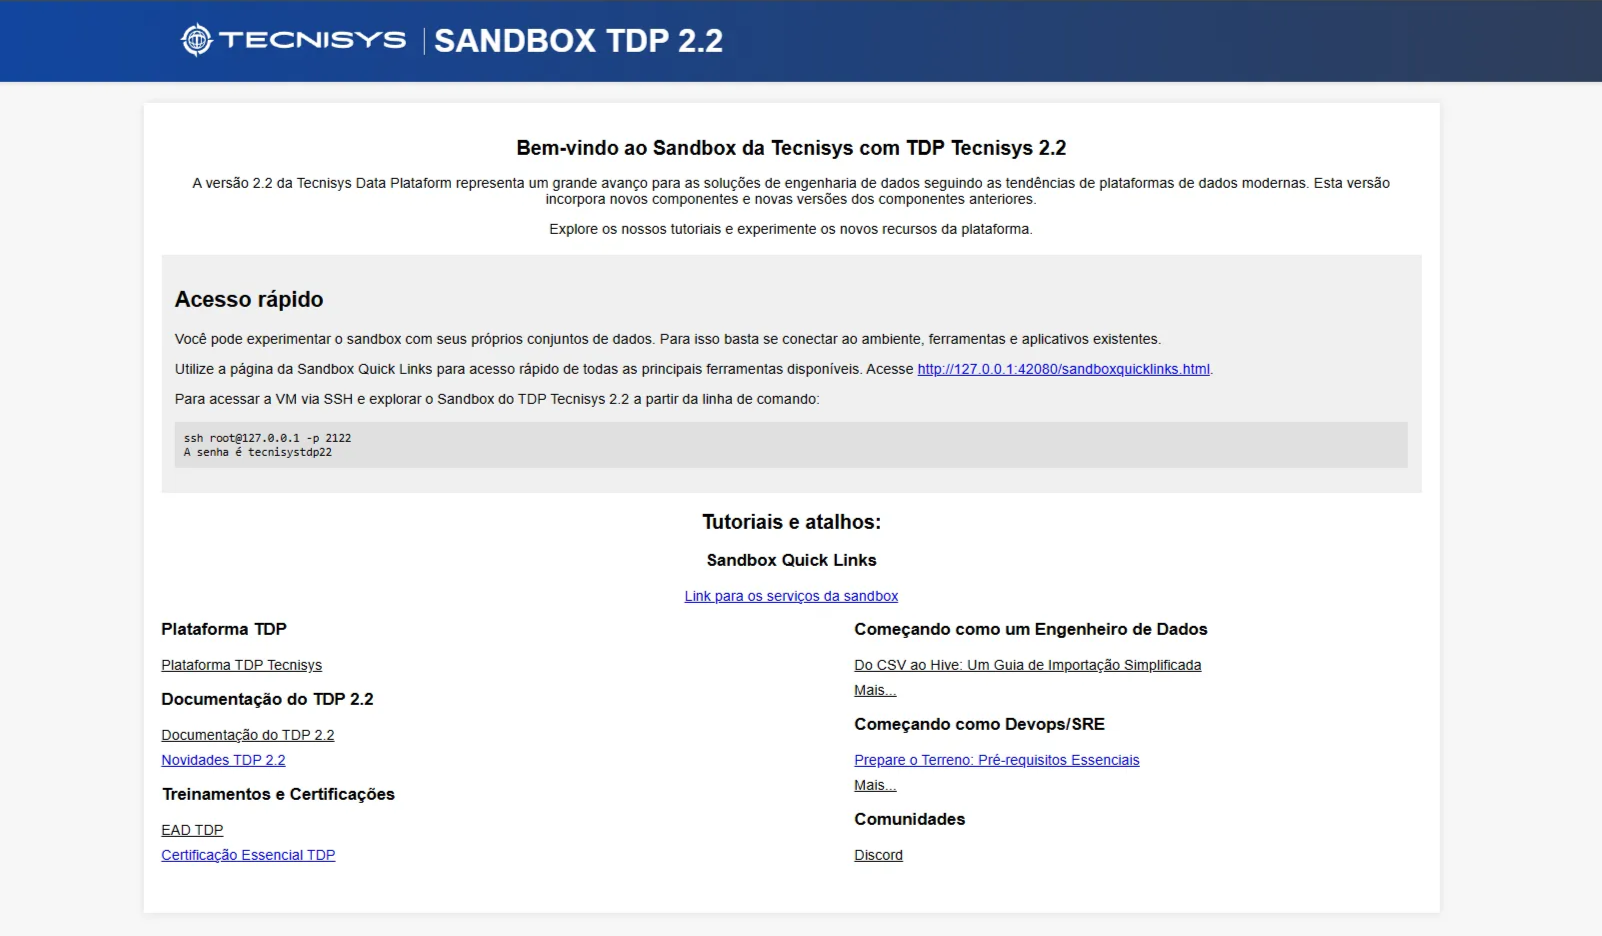
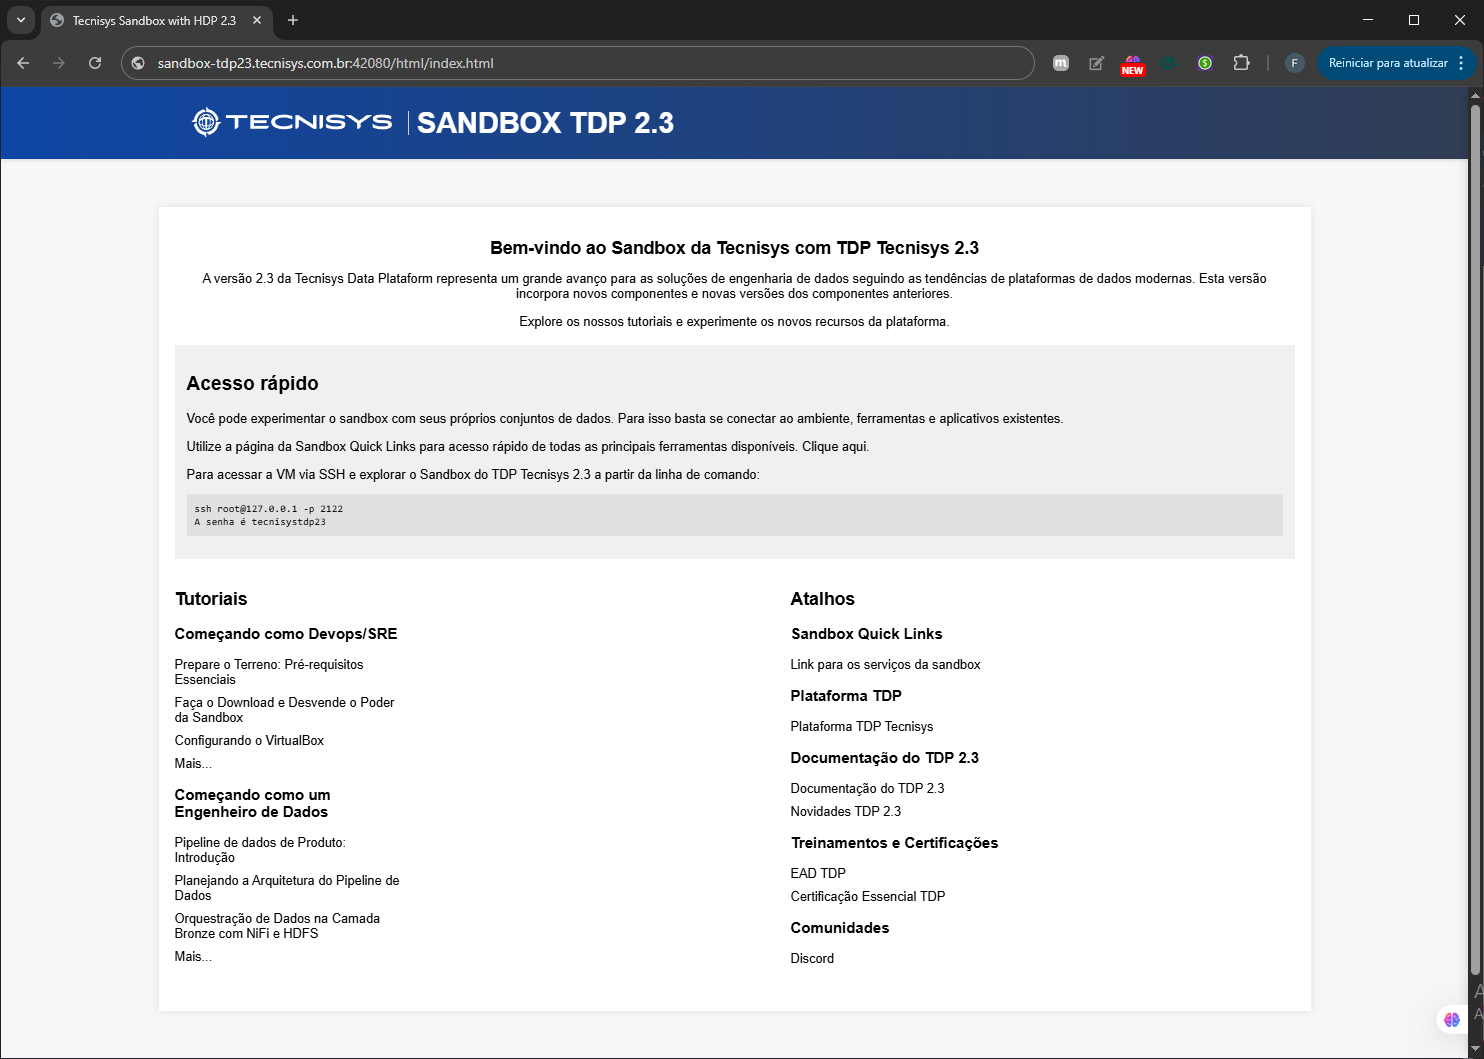
chore(docs): atualizar textos, imagens e links para a versão 2.3 da sandbox

diff --git a/html/sandboxquicklinks.html b/html/sandboxquicklinks.html
@@ -3,7 +3,7 @@
 <head>
     <meta charset="UTF-8">
     <meta name="viewport" content="width=device-width, initial-scale=1">
-    <title>Sandbox TDP 2.2</title>
+    <title>Sandbox TDP 2.3</title>
     <link rel="stylesheet" href="../css/global.css">
     <style>
         .logo-container {
@@ -115,7 +115,7 @@
                     <img src="/images/logo_principal_negativo.svg" alt="TecniSys Logo">
                 </a>
                 <span class="divider"></span>
-                <a href="index.html" class="main-title">SANDBOX TDP 2.2</a>
+                <a href="index.html" class="main-title">SANDBOX TDP 2.3</a>
             </div>
         </div>
     </header>
@@ -129,84 +129,84 @@
     <div class="link-box">
         <h4>Ambari</h4>
         <div class="hidden-info">
-            <a href="http://sandbox-tdp22.tecnisys.com.br:8080">Go to UI</a><br>
+            <a href="http://sandbox-tdp23.tecnisys.com.br:8080">Go to UI</a><br>
             Usuário & senha: admin/admin
         </div>
     </div>
     <div class="link-box">
         <h4>NiFi</h4>
         <div class="hidden-info">
-            <a href="http://sandbox-tdp22.tecnisys.com.br:9090">Go to UI</a><br>
+            <a href="http://sandbox-tdp23.tecnisys.com.br:9090">Go to UI</a><br>
             Usuário & senha: admin/admin
         </div>
     </div>
     <div class="link-box">
         <h4>Zeppelin</h4>
         <div class="hidden-info">
-            <a href="http://sandbox-tdp22.tecnisys.com.br:9995">Go to UI</a><br>
+            <a href="http://sandbox-tdp23.tecnisys.com.br:9995">Go to UI</a><br>
             Usuário & senha: admin/admin
         </div>
     </div>
     <div class="link-box">
         <h4>Superset</h4>
         <div class="hidden-info">
-            <a href="http://sandbox-tdp22.tecnisys.com.br:9088">Go to UI</a><br>
+            <a href="http://sandbox-tdp23.tecnisys.com.br:9088">Go to UI</a><br>
             Usuário & senha: admin/admin
         </div>
     </div>
     <div class="link-box">
         <h4>Grafana</h4>
         <div class="hidden-info">
-            <a href="http://sandbox-tdp22.tecnisys.com.br:3000">Go to UI</a><br>
+            <a href="http://sandbox-tdp23.tecnisys.com.br:3000">Go to UI</a><br>
             Usuário & senha: admin/admin
         </div>
     </div>
     <div class="link-box">
         <h4>Kafka UI</h4>
         <div class="hidden-info">
-            <a href="http://sandbox-tdp22.tecnisys.com.br:8079">Go to UI</a><br>
+            <a href="http://sandbox-tdp23.tecnisys.com.br:8079">Go to UI</a><br>
             Usuário & senha: root/hadoop
         </div>
     </div>
     <div class="link-box">
         <h4>Ranger Console</h4>
         <div class="hidden-info">
-            <a href="http://sandbox-tdp22.tecnisys.com.br:6080">Go to UI</a><br>
+            <a href="http://sandbox-tdp23.tecnisys.com.br:6080">Go to UI</a><br>
             Usuário & senha: admin/admin
         </div>
     </div>
     <div class="link-box">
         <h4>NiFi Registry</h4>
         <div class="hidden-info">
-            <a href="http://sandbox-tdp22.tecnisys.com.br:61080">Go to UI</a><br>
+            <a href="http://sandbox-tdp23.tecnisys.com.br:61080">Go to UI</a><br>
             Usuário & senha: admin/admin
         </div>
     </div>
     <div class="link-box">
         <h4>Spark3 Console</h4>
         <div class="hidden-info">
-            <a href="http://sandbox-tdp22.tecnisys.com.br:18082">Go to UI</a><br>
+            <a href="http://sandbox-tdp23.tecnisys.com.br:18082">Go to UI</a><br>
             Usuário & senha: admin/admin
         </div>
     </div>
     <div class="link-box">
         <h4>Airflow Console</h4>
         <div class="hidden-info">
-            <a href="http://sandbox-tdp22.tecnisys.com.br:18080">Go to UI</a><br>
+            <a href="http://sandbox-tdp23.tecnisys.com.br:18080">Go to UI</a><br>
             Usuário & senha: admin/admin
         </div>
     </div>
     <div class="link-box">
         <h4>Druid Console</h4>
         <div class="hidden-info">
-            <a href="http://sandbox-tdp22.tecnisys.com.br:8888">Go to UI</a><br>
+            <a href="http://sandbox-tdp23.tecnisys.com.br:8888">Go to UI</a><br>
             Usuário & senha: admin/admin
         </div>
     </div>
     <div class="link-box">
         <h4>Solr Console</h4>
         <div class="hidden-info">
-            <a href="http://sandbox-tdp22.tecnisys.com.br:8983">Go to UI</a><br>
+            <a href="http://sandbox-tdp23.tecnisys.com.br:8983">Go to UI</a><br>
             Usuário & senha: admin/admin
         </div>
     </div>

diff --git a/html/index.html b/html/index.html
@@ -3,7 +3,7 @@
   <head>
     <meta charset="UTF-8" />
     <meta name="viewport" content="width=device-width, initial-scale=1.0" />
-    <title>Tecnisys Sandbox with HDP 2.2</title>
+    <title>Tecnisys Sandbox with HDP 2.3</title>
     <link rel="stylesheet" href="../css/global.css" />
     <link rel="stylesheet" href="../css/index.css" />
   </head>
@@ -18,16 +18,16 @@
             />
           </a>
           <span class="divider"></span>
-          <a href="index.html" class="main-title">SANDBOX TDP 2.2</a>
+          <a href="index.html" class="main-title">SANDBOX TDP 2.3</a>
         </div>
       </div>
     </header>
 
     <div class="content">
       <div class="section">
-        <h2>Bem-vindo ao Sandbox da Tecnisys com TDP Tecnisys 2.2</h2>
+        <h2>Bem-vindo ao Sandbox da Tecnisys com TDP Tecnisys 2.3</h2>
         <p>
-          A versão 2.2 da Tecnisys Data Plataform representa um grande avanço
+          A versão 2.3 da Tecnisys Data Plataform representa um grande avanço
           para as soluções de engenharia de dados seguindo as tendências de
           plataformas de dados modernas. Esta versão incorpora novos componentes
           e novas versões dos componentes anteriores.
@@ -47,16 +47,16 @@
         </p>
         <p>
           Utilize a página da Sandbox Quick Links para acesso rápido de todas as
-          principais ferramentas disponíveis. Acesse
+          principais ferramentas disponíveis.
           <a href="sandboxquicklinks.html">Clique aqui</a>.
         </p>
         <p>
-          Para acessar a VM via SSH e explorar o Sandbox do TDP Tecnisys 2.2 a
+          Para acessar a VM via SSH e explorar o Sandbox do TDP Tecnisys 2.3 a
           partir da linha de comando:
         </p>
         <pre>
 ssh root@127.0.0.1 -p 2122
-A senha é tecnisystdp22</pre
+A senha é tecnisystdp23</pre
         >
       </div>
 
@@ -124,18 +124,18 @@ A senha é tecnisystdp22</pre
                   >
                 </li>
               </ul>
-              <h3>Documentação do TDP 2.2</h3>
+              <h3>Documentação do TDP 2.3</h3>
               <ul>
                 <li>
                   <a
-                    href="https://docs.tecnisys.com.br/tdp/2.2.0/01-tdp-visao-geral.html"
-                    >Documentação do TDP 2.2</a
+                    href="https://docs.tecnisys.com.br/tdp/2.3.0/01-tdp-visao-geral.html"
+                    >Documentação do TDP 2.3</a
                   >
                 </li>
                 <li>
                   <a
-                    href="https://docs.tecnisys.com.br/tdp/2.2.0/07-tdp-notas-tecnicas/07-1-release-2-2-0.html"
-                    >Novidades TDP 2.2</a
+                    href="https://docs.tecnisys.com.br/tdp/2.3.0/07-tdp-notas-tecnicas/07-1-release-2-3-0.html"
+                    >Novidades TDP 2.3</a
                   >
                 </li>
               </ul>

diff --git a/html/sandboxtutoriais.html b/html/sandboxtutoriais.html
@@ -3,7 +3,7 @@
   <head>
     <meta charset="UTF-8" />
     <meta name="viewport" content="width=device-width, initial-scale=1.0" />
-    <title>Tecnisys Sandbox with HDP 2.2</title>
+    <title>Tecnisys Sandbox with HDP 2.3</title>
     <link rel="stylesheet" href="../css/global.css" />
     <link rel="stylesheet" href="../css/sandboxtutoriais.css" />
   </head>
@@ -18,7 +18,7 @@
             />
           </a>
           <span class="divider"></span>
-          <a href="index.html" class="main-title">SANDBOX TDP 2.2</a>
+          <a href="index.html" class="main-title">SANDBOX TDP 2.3</a>
         </div>
       </div>
     </header>
@@ -40,7 +40,7 @@
       <div class="section">
         <h2>Bem-vindo aos Tutoriais da Sandbox da Tecnisys</h2>
         <p>
-          Explore nossa coleção de tutoriais da versão 2.2 da Tecnisys Data
+          Explore nossa coleção de tutoriais da versão 2.3 da Tecnisys Data
           Platform. Aqui, você encontrará orientações detalhadas para
           configurar, implementar e utilizar a plataforma.
         </p>

diff --git a/html/tutorial.html b/html/tutorial.html
@@ -23,7 +23,7 @@
                     <img src="/images/logo_principal_negativo.svg" alt="TecniSys Logo">
                 </a>
                 <span class="divider"></span>
-                <a href="index.html" class="main-title">SANDBOX TDP 2.2</a>
+                <a href="index.html" class="main-title">SANDBOX TDP 2.3</a>
             </div>
         </div>
     </header>

diff --git a/markdown/tutorial2.4/tutorial2.4.md b/markdown/tutorial2.4/tutorial2.4.md
@@ -1,10 +1,10 @@
 # Configurando o Host Local com o Domínio TDP
 
-Ao configurar uma máquina virtual (VM) ou aplicações em ambientes locais, é altamente recomendado associar o domínio da máquina ao `localhost`. Isso facilita o redirecionamento de portas e a simulação de ambientes reais sem depender de servidores externos. Vamos aprender como configurar o arquivo `hosts` no Linux e no Windows para associar o IP `127.0.0.1` a um domínio como `sandbox-tdp22.tecnisys.com.br`.
+Ao configurar uma máquina virtual (VM) ou aplicações em ambientes locais, é altamente recomendado associar o domínio da máquina ao `localhost`. Isso facilita o redirecionamento de portas e a simulação de ambientes reais sem depender de servidores externos. Vamos aprender como configurar o arquivo `hosts` no Linux e no Windows para associar o IP `127.0.0.1` a um domínio como `sandbox-tdp23.tecnisys.com.br`.
 
 ## O que é o arquivo `hosts` e por que configurá-lo?
 
-O arquivo `hosts` é uma configuração local presente em sistemas operacionais como Linux e Windows. Ele serve para mapear nomes de domínio (como `sandbox-tdp22.tecnisys.com.br`) para endereços IP, substituindo a necessidade de uma consulta DNS.
+O arquivo `hosts` é uma configuração local presente em sistemas operacionais como Linux e Windows. Ele serve para mapear nomes de domínio (como `sandbox-tdp23.tecnisys.com.br`) para endereços IP, substituindo a necessidade de uma consulta DNS.
 
 No caso de redirecionamento de portas de uma VM, essa configuração permite acessar serviços locais ou de uma máquina virtual como se fossem hospedados em um domínio público. Isso é útil para:
 
@@ -27,7 +27,7 @@ sudo vi /etc/hosts
     Inclua a linha abaixo no final do arquivo:
     
 ```
-127.0.0.1 sandbox-tdp22.tecnisys.com.br  sandbox-tdp22
+127.0.0.1 sandbox-tdp23.tecnisys.com.br  sandbox-tdp23
 ```
     
 - **Salve e feche o arquivo.**
@@ -53,7 +53,7 @@ C:\Windows\System32\drivers\etc\hosts
     Insira a linha abaixo no final do arquivo:
     
 ```
-127.0.0.1 sandbox-tdp22.tecnisys.com.br  sandbox-tdp22
+127.0.0.1 sandbox-tdp23.tecnisys.com.br  sandbox-tdp23
 ```
     
     ![Captura de Tela (80).png](Captura_de_Tela_80.png)

diff --git a/markdown/tutorial2.5/tutorial2.5.md b/markdown/tutorial2.5/tutorial2.5.md
@@ -25,9 +25,9 @@ Uma vez que a sandbox esteja em execução, você pode acessá-lo pelo navegador
 http://localhost:42080
 ```
 
-- **Caso tenha configurado um domínio local (como vimos no guia de `hosts`), use `sandbox-tdp22.tecnisys.com.br`:**
+- **Caso tenha configurado um domínio local (como vimos no guia de `hosts`), use `sandbox-tdp23.tecnisys.com.br`:**
 ```
-http://sandbox-tdp22.tecnisys.com.br:42080
+http://sandbox-tdp23.tecnisys.com.br:42080
 ```
 
 ### Acessar página inicial do TDP
@@ -59,7 +59,7 @@ Para usuários avançados, conecte-se ao terminal da sandbox via SSH na porta `2
 
 ```
 ssh -p 2122 devopstdp@localhost
-senha:tecnisystdp22
+senha:tecnisystdp23
 ```
 
 ![Captura de Tela (77).png](Captura_de_Tela_77.png)

diff --git a/markdown/tutorial3.8/tutorial3.8.md b/markdown/tutorial3.8/tutorial3.8.md
@@ -8,13 +8,13 @@ O Apache Superset é uma poderosa ferramenta open-source que permite criar visua
 ## Acessando o Apache Superset
 Para começar, acesse o Apache Superset através do link abaixo:  
 
-[Superset Sandbox - Tecnisys](http://sandbox-tdp22.tecnisys.com.br:9088/login/)  
+[Superset Sandbox - Tecnisys](http://sandbox-tdp23.tecnisys.com.br:9088/login/)  
 
 
 Credenciais de acesso:  
 ```
 Login: admin
-Senha: tecnisystdp22
+Senha: tecnisystdp23
 ```
 
 Você pode importar um dashboard completo a partir dos **Recursos Disponíveis** mencionados em um tutorial anterior. No entanto, neste guia, vamos demonstrar passo a passo como conectar o Hive ao Superset e criar gráficos e dashboards personalizados.

diff --git a/markdown/original/tutorial1.md b/markdown/original/tutorial1.md
@@ -91,7 +91,7 @@ A sandbox está agora pronta para uso!
     
     ```powershell
     ssh -p 2122 devopstdp@localhost
-    tecnisystdp22
+    tecnisystdp23
     ```
     
 3. **Inicialização de Serviços**
@@ -140,7 +140,7 @@ A sandbox está agora pronta para uso!
     
     ```powershell
     ssh -p 2122 devopstdp@localhost
-    tecnisystdp22
+    tecnisystdp23
     
     su - hdfs
     hdfs dfs -mkdir /bronze /silver /gold
@@ -219,7 +219,7 @@ Realiza a ultima limpeza e seleção dos dados que serão utilizados para criaç
     
     ```powershell
     ssh -p 2122 devopstdp@localhost
-    tecnisystdp22
+    tecnisystdp23
     
     su - hive
     hive

diff --git a/markdown/tutorial3.7/tutorial3.7.md b/markdown/tutorial3.7/tutorial3.7.md
@@ -12,7 +12,7 @@ Antes de iniciar, conecte-se ao ambiente onde o Hive está configurado:
 
 ```
 ssh -p 2122 devopstdp@localhost
-Senha: tecnisystdp22 
+Senha: tecnisystdp23 
 ```
 2. Troque para o usuário `hive`:  
 ```
@@ -52,14 +52,10 @@ Após criar a tabela, valide se a tabela foi criada corretamente:
 ```
 show tables;
 ```
-    ![image1](image1.png)
-
 2. Execute o seguinte comando para verificar a descrição da tabela:
 ```
 desc gold_product_tb;
 ```
-    ![image2](image2.png)
-
 3. Execute o seguinte e valide se os dados estão acessíveis:
 ```
 select * from gold_product_tb limit 10;

diff --git a/markdown/tutorial3.2/tutorial3.2.md b/markdown/tutorial3.2/tutorial3.2.md
@@ -69,7 +69,7 @@ Acesse o HDFS e configure os diretórios necessários:
 
 ```
 ssh -p 2122 devopstdp@localhost
-Senha: tecnisystdp22 
+Senha: tecnisystdp23 
 ```
 2. Eleve os privilégios para o usuário **hdfs**:  
 ```
